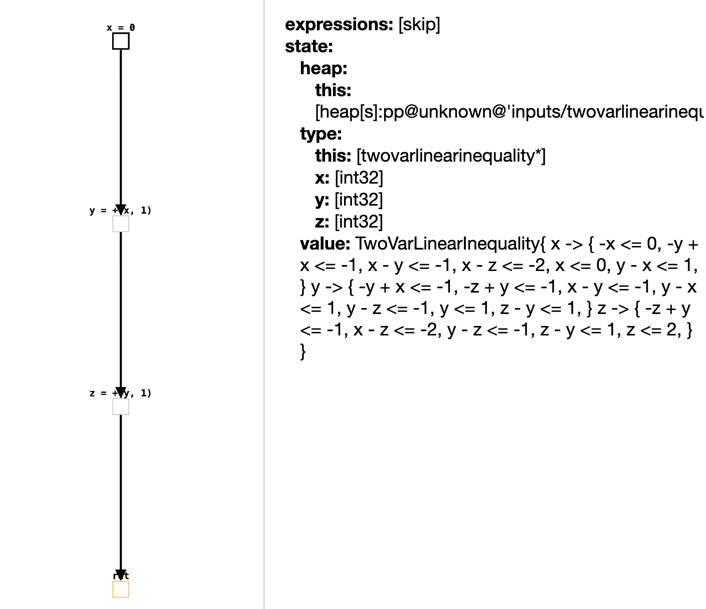
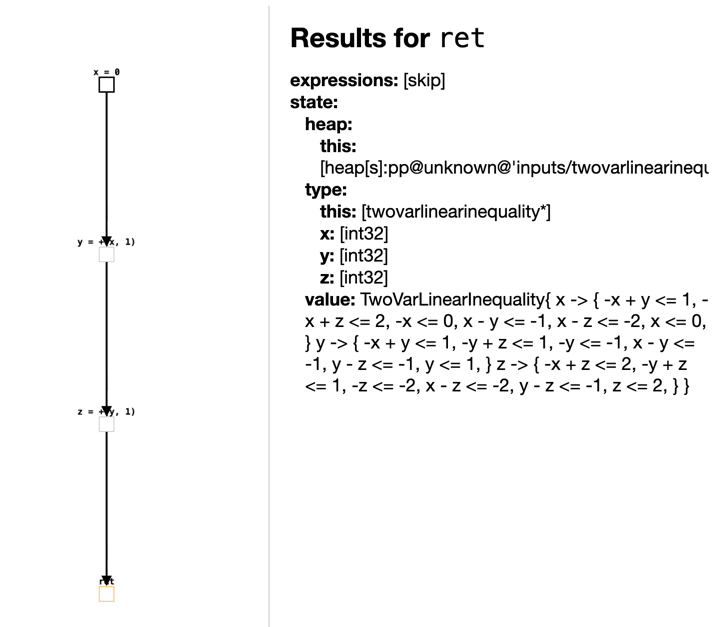
fix bug realtion sanitize not use normalize and rewrite readme - product

Changed region(s): [[0.4051, 0.0312, 0.9972, 0.624], [0.1246, 0.0312, 0.2181, 0.9984]]

diff --git a/src/main/java/it/unive/lisa/tutorial/TwoVarLinearInequality.java b/src/main/java/it/unive/lisa/tutorial/TwoVarLinearInequality.java
@@ -668,7 +668,11 @@ public class TwoVarLinearInequality implements ValueDomain<TwoVarLinearInequalit
      * 3. Keeping only the tightest constraints
      */
     private Set<Inequality> sanitize(Set<Inequality> set) {
-        for (Inequality ineq : set) {
+        Set<Inequality> normalized = new HashSet<>();
+        for (Inequality ineq : set)
+            normalized.add(ineq.normalize());
+
+        for (Inequality ineq : normalized) {
             if (ineq.isUnsatisfiable()) {
                 Set<Inequality> bottomSet = new HashSet<>();
                 bottomSet.add(new Inequality(0, null, 0, null, -1));
@@ -676,7 +680,7 @@ public class TwoVarLinearInequality implements ValueDomain<TwoVarLinearInequalit
             }
         }
 
-        Set<Inequality> cleaned = removeTrivial(set);
+        Set<Inequality> cleaned = removeTrivial(normalized);
         cleaned = tighten(cleaned);
         return cleaned;
     }
@@ -994,8 +998,6 @@ public class TwoVarLinearInequality implements ValueDomain<TwoVarLinearInequalit
                 na = nb;
                 nb = tmpCoeff;
             }
-
-
 
             return new Inequality(na, nx, nb, ny, nc);
         }

diff --git a/README.md b/README.md
@@ -363,10 +363,21 @@ Cette décision repose sur les contraintes présentes :
 Cette fonctionnalité est utilisée pour analyser la faisabilité des branches conditionnelles.
 
 ---
+
+### Normalisation des inégalités
+
+Dans notre implémentation, les contraintes sont normalisées afin d’obtenir une représentation canonique. Cette étape est essentielle pour faciliter la comparaison des contraintes, la suppression des doublons et l’identification des contraintes redondantes.
+
+La normalisation repose sur deux principes principaux :
+
+- une réduction des coefficients et de la constante par leur plus grand commun diviseur (gcd), afin de simplifier l’inégalité ;
+- une mise en ordre déterministe des variables lorsque deux variables apparaissent dans la contrainte, de manière à éviter que deux contraintes équivalentes soient représentées sous des formes différentes.
+
+Par exemple, les contraintes `x + y ≤ 5` et `y + x ≤ 5` sont transformées en une représentation unique, ce qui permet de garantir la cohérence de l’ensemble des inégalités.
+
+
 ### Closure
-
-Dans le domaine TwoVarLinearInequality, l’opération de closure permet d’enrichir l’ensemble des contraintes en déduisant des relations implicites entre variables.
-
+Dans le domaine TwoVarLinearInequality, après normalisation des contraintes, l’opération de closure permet d’enrichir l’ensemble des contraintes en déduisant des relations implicites entre variables.
 Par exemple :
 
 - x - y ≤ 2
@@ -501,67 +512,24 @@ Ce domaine produit permet de conserver simultanément deux types d’information
 
 Grâce à cette combinaison, l’analyse peut à la fois refléter les bornes numériques des variables et exprimer les dépendances entre elles, ce qui améliore la précision globale de l’analyse.
 
+En outre, nous avons introduit un mécanisme de réduction  au sein du produit, permettant une interaction entre les deux domaines.
+
+Plus précisément :
+  - le domaine des intervalles peut déduire des relations entre variables à partir des bornes numériques et les transmettre au domaine relationnel
+  - inversement, les contraintes du domaine relationnel (par exemple des bornes supérieures ou inférieures) peuvent raffiner les intervalles
+
 ### Test :
 
-Ce test vise à vérifier que le domaine produit est capable de combiner les informations d’intervalles et les relations entre variables.
-
+Afin de mettre en évidence l’effet de la réduction du produit cartésien sur l’amélioration conjointe des deux domaines, nous avons conçu le programme de test suivant :
 ```java
-product_test() {
+reduction_relation() {
   def x = 0;
-  def y = x + 1;
+  def y = 1;
   def z = y + 1;
-
-  if (x < y) {
-    if (y < z) {
-      def a = z;
-    }
-  }
 }
 ```
-#### État 1 : phase d’assignation
+L’objectif de ce test est d’observer, à différents points du programme, si la réduction permet de déduire des relations supplémentaires entre variables à partir du domaine des intervalles.
 
-La figure suivante montre l’état abstrait après l’instruction `z = y + 1` :
-
-![refineRange](images/product1.png)
-
-On peut observer que :
-
-- OverflowInterval infère des valeurs précises :
-  - x ∈ [0, 0]
-  - y ∈ [1, 1]
-  - z ∈ [2, 2]
-
-- En parallèle, TwoVarLinearInequality capture les relations :
-  - y - x ≤ 1
-  - z - y ≤ 1
-  - x - z ≤ -2 (déduit par closure)
-
-Cela montre que le produit permet de conserver simultanément les informations numériques et relationnelles.
-
----
-
-#### État 2 : sous contraintes conditionnelles
-
-La figure suivante montre l’état abstrait à l’intérieur des conditions imbriquées (lors de `a = z`) :
-
-![refineRange](images/product2.png)
-
-À ce point :
-
-- x < y
-- y < z
-
-Ces conditions sont traduites en :
-
-- x - y ≤ -1
-- y - z ≤ -1
-
-et permettent de déduire :
-
-- x - z ≤ -2
-
-En même temps, le domaine d’intervalles conserve des valeurs précises :
-
-- a ∈ [2, 2]
-
-Cela démontre que le domaine produit est capable de propager à la fois les contraintes numériques et relationnelles dans le flot de contrôle.
+| | |
+|---|---|
+| ![refineRange](images/product_combin.png) ![refineRange](images/product_relation.png)
